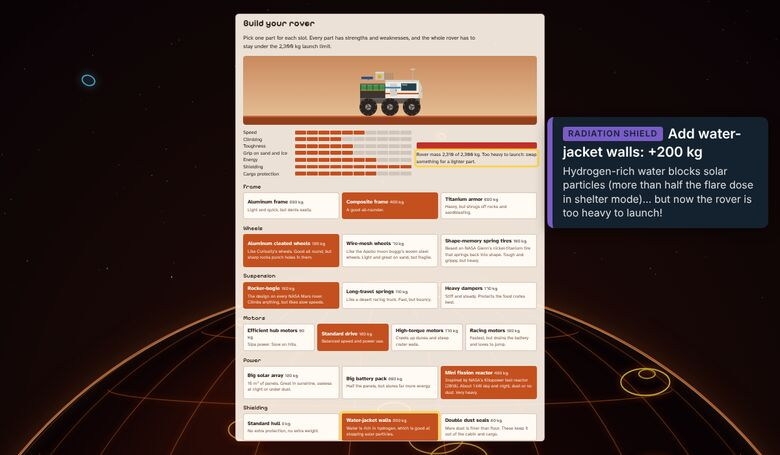
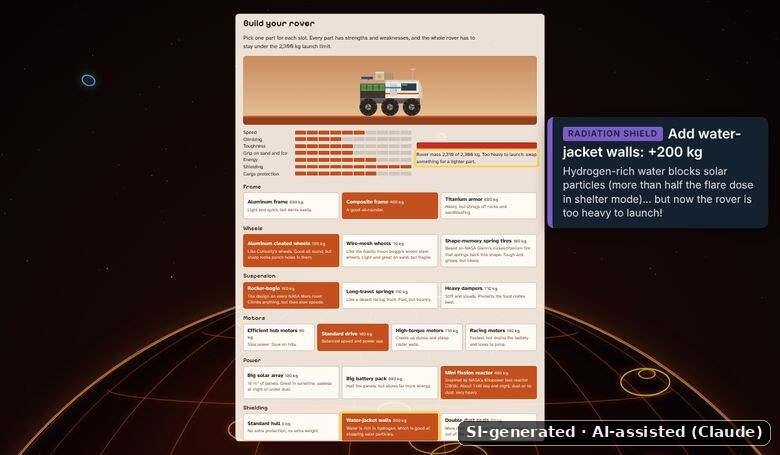
Add Super Intelligence (SI) use disclosure
Concept and design by the Swinging Monkeys team; implementation SI-assisted (Claude).
- README section, AI_DISCLOSURE.md and machine-readable ai-disclosure.json
- SI disclosure header comment in every source file, meta tags in HTML pages
- Credit line on the game's title screen and in the guide footer
- Visible 'SI-generated' watermark plus metadata on all images and GIFs
- Team credit corrected to Swinging Monkeys in README, title screen and guide

Claude-Session: https://claude.ai/code/session_011haJVXXFhJKv8QtmjL1T8B

Changed region(s): [[0.5846, 0.9231, 0.9846, 0.9846]]

diff --git a/guide/index.html b/guide/index.html
@@ -1,7 +1,17 @@
 <!DOCTYPE html>
+<!--
+  Super Intelligence (SI) disclosure (NASA Space Apps Challenge 2026)
+  Concept and design: the Swinging Monkeys team (the team members who took part in the project).
+  Implementation: this guide page (text, layout and code) was generated and edited with SI assistance
+  (Claude by Anthropic, an AI assistant), directed and reviewed by the team.
+  Details: AI_DISCLOSURE.md and ai-disclosure.json in the repository root.
+-->
 <html lang="en">
 <head>
 <meta charset="utf-8">
+<meta name="si-generated" content="true">
+<meta name="ai-disclosure" content="Concept and design by the Swinging Monkeys team. Code generated with Super Intelligence (SI) assistance (Claude by Anthropic), directed and reviewed by the team. See AI_DISCLOSURE.md.">
+<link rel="ai-disclosure" href="../ai-disclosure.json" type="application/json">
 <meta name="viewport" content="width=device-width, initial-scale=1">
 <title>How to Play: Supply Run to Bravo (Junior Astronaut Mission Trainer)</title>
 <meta name="description" content="A player's guide to Supply Run to Bravo, the Junior Astronaut Mission Trainer game from NASA Space Apps Challenge 2026: controls, the mission, hazards, and the trade-offs between power, life support, radiation shielding and communication.">
@@ -480,7 +490,8 @@ footer a{color:#f2c9a8;overflow-wrap:anywhere}
 
 <footer>
   <div class="wrap">
-    <p>Unofficial player's guide to <b>Supply Run to Bravo</b>, a Junior Astronaut Mission Trainer made by The Royal Beauties for the <a href="https://www.spaceappschallenge.org/2026/challenges/junior-astronaut-mission-trainer/" target="_blank" rel="noopener">NASA Space Apps Challenge 2026</a>. Game source: <a href="https://github.com/swingingmonkeys/juniorastronautmissiontrainer" target="_blank" rel="noopener">github.com/swingingmonkeys/juniorastronautmissiontrainer</a>. Clips and screenshots were recorded from the game. Not produced or endorsed by NASA.</p>
+    <p>Unofficial player's guide to <b>Supply Run to Bravo</b>, a Junior Astronaut Mission Trainer made by Swinging Monkeys for the <a href="https://www.spaceappschallenge.org/2026/challenges/junior-astronaut-mission-trainer/" target="_blank" rel="noopener">NASA Space Apps Challenge 2026</a>. Game source: <a href="https://github.com/swingingmonkeys/juniorastronautmissiontrainer" target="_blank" rel="noopener">github.com/swingingmonkeys/juniorastronautmissiontrainer</a>. Clips and screenshots were recorded from the game. Not produced or endorsed by NASA.</p>
+    <p id="si"><b>Use of Super Intelligence (SI).</b> The game concept and design are by the Swinging Monkeys team, the team members who took part in the project. The game code and this guide were built with SI assistance (Claude by Anthropic), directed and reviewed by the team. Every clip and screenshot on this page is a capture of that SI-assisted game and carries a visible “SI-generated” watermark. Full details: <a href="https://github.com/swingingmonkeys/juniorastronautmissiontrainer/blob/main/AI_DISCLOSURE.md" target="_blank" rel="noopener">AI_DISCLOSURE.md</a>.</p>
   </div>
 </footer>
 

diff --git a/index.html b/index.html
@@ -1,7 +1,17 @@
 <!DOCTYPE html>
+<!--
+  Super Intelligence (SI) disclosure (NASA Space Apps Challenge 2026)
+  Concept and design: the Swinging Monkeys team (the team members who took part in the project).
+  Implementation: this file's code was generated and edited with SI assistance
+  (Claude by Anthropic, an AI assistant), directed and reviewed by the team.
+  Details: AI_DISCLOSURE.md and ai-disclosure.json in the repository root.
+-->
 <html lang="en">
 <head>
 <meta charset="utf-8">
+<meta name="si-generated" content="true">
+<meta name="ai-disclosure" content="Concept and design by the Swinging Monkeys team. Code generated with Super Intelligence (SI) assistance (Claude by Anthropic), directed and reviewed by the team. See AI_DISCLOSURE.md.">
+<link rel="ai-disclosure" href="ai-disclosure.json" type="application/json">
 <meta name="viewport" content="width=device-width, initial-scale=1, viewport-fit=cover">
 <title>Supply Run to Bravo – HIF Mars Mission Trainer</title>
 <link rel="preconnect" href="https://fonts.googleapis.com">
@@ -895,7 +905,8 @@ function eventCard({title,who,body,data,choices,after}){
 function titleCard(){
   openCard(`<h1>Supply Run to Bravo</h1>
   <p style="font-family:var(--pixel);font-size:22px;margin:0 0 8px;color:var(--teal)">HIF Mars Mission Trainer</p>
-  <p class="who">A Junior Astronaut Mission Trainer by The Royal Beauties, NASA Space Apps Challenge 2026</p>
+  <p class="who">A Junior Astronaut Mission Trainer by Swinging Monkeys, NASA Space Apps Challenge 2026</p>
+  <p class="who" style="font-size:12px">Concept and design by the Swinging Monkeys team. Code built with Super Intelligence (SI) assistance (Claude by Anthropic). <a href="guide/#si" target="_blank" rel="noopener" style="color:var(--teal)">AI use</a></p>
   <p>Base Alpha is shutting down. You and your crewmate have one job: move <b>all 4 crates of food</b> 24 km across Mars to Base Bravo. Your rover can only carry 200 kg at a time on Medium and Hard, so you’ll make several trips (on Easy, everything fits in one trip), unless you explore deep caves for rare minerals and build a bigger rover.</p>
   <p>The numbers in this game come from real Mars missions: how much oxygen people breathe, how much sunlight reaches Mars, how strong the radiation is, and what dust storms and solar flares did to real rovers.</p>
   <p>First you’ll design your rover in the garage. Then watch your oxygen and battery, keep the food safe, and race to get everything to Bravo. The fastest crews make the world leaderboard.</p>

diff --git a/lebron.html b/lebron.html
@@ -1,7 +1,17 @@
 <!DOCTYPE html>
+<!--
+  Super Intelligence (SI) disclosure (NASA Space Apps Challenge 2026)
+  Concept and design: the Swinging Monkeys team (the team members who took part in the project).
+  Implementation: this file's code was generated and edited with SI assistance
+  (Claude by Anthropic, an AI assistant), directed and reviewed by the team.
+  Details: AI_DISCLOSURE.md and ai-disclosure.json in the repository root.
+-->
 <html lang="en">
 <head>
 <meta charset="utf-8">
+<meta name="si-generated" content="true">
+<meta name="ai-disclosure" content="Concept and design by the Swinging Monkeys team. Code generated with Super Intelligence (SI) assistance (Claude by Anthropic), directed and reviewed by the team. See AI_DISCLOSURE.md.">
+<link rel="ai-disclosure" href="ai-disclosure.json" type="application/json">
 <meta name="viewport" content="width=device-width, initial-scale=1, viewport-fit=cover">
 <title>Supply Run to Bravo – HIF Mars Mission Trainer</title>
 <link rel="preconnect" href="https://fonts.googleapis.com">
@@ -893,7 +903,7 @@ function eventCard({title,who,body,data,choices,after}){
 function titleCard(){
   openCard(`<h1>Supply Run to Bravo</h1>
   <p style="font-family:var(--pixel);font-size:22px;margin:0 0 8px;color:var(--teal)">HIF Mars Mission Trainer</p>
-  <p class="who">A Junior Astronaut Mission Trainer by The Royal Beauties, NASA Space Apps Challenge 2026</p>
+  <p class="who">A Junior Astronaut Mission Trainer by Swinging Monkeys, NASA Space Apps Challenge 2026</p>
   <p>Base Alpha is shutting down. You and your crewmate have one job: move <b>all 4 crates of food</b> 24 km across Mars to Base Bravo. Your rover can only carry 200 kg at a time on Medium and Hard, so you’ll make several trips (on Easy, everything fits in one trip), unless you explore deep caves for rare minerals and build a bigger rover.</p>
   <p>The numbers in this game come from real Mars missions: how much oxygen people breathe, how much sunlight reaches Mars, how strong the radiation is, and what dust storms and solar flares did to real rovers.</p>
   <p>First you’ll design your rover in the garage. Then watch your oxygen and battery, keep the food safe, and race to get everything to Bravo. The fastest crews make the world leaderboard.</p>

diff --git a/lebron3.0.html b/lebron3.0.html
@@ -1,7 +1,17 @@
 <!DOCTYPE html>
+<!--
+  Super Intelligence (SI) disclosure (NASA Space Apps Challenge 2026)
+  Concept and design: the Swinging Monkeys team (the team members who took part in the project).
+  Implementation: this file's code was generated and edited with SI assistance
+  (Claude by Anthropic, an AI assistant), directed and reviewed by the team.
+  Details: AI_DISCLOSURE.md and ai-disclosure.json in the repository root.
+-->
 <html lang="en">
 <head>
 <meta charset="utf-8">
+<meta name="si-generated" content="true">
+<meta name="ai-disclosure" content="Concept and design by the Swinging Monkeys team. Code generated with Super Intelligence (SI) assistance (Claude by Anthropic), directed and reviewed by the team. See AI_DISCLOSURE.md.">
+<link rel="ai-disclosure" href="ai-disclosure.json" type="application/json">
 <meta name="viewport" content="width=device-width, initial-scale=1, viewport-fit=cover">
 <title>Supply Run to Bravo – HIF Mars Mission Trainer</title>
 <link rel="preconnect" href="https://fonts.googleapis.com">
@@ -893,7 +903,7 @@ function eventCard({title,who,body,data,choices,after}){
 function titleCard(){
   openCard(`<h1>Supply Run to Bravo</h1>
   <p style="font-family:var(--pixel);font-size:22px;margin:0 0 8px;color:var(--teal)">HIF Mars Mission Trainer</p>
-  <p class="who">A Junior Astronaut Mission Trainer by The Royal Beauties, NASA Space Apps Challenge 2026</p>
+  <p class="who">A Junior Astronaut Mission Trainer by Swinging Monkeys, NASA Space Apps Challenge 2026</p>
   <p>Base Alpha is shutting down. You and your crewmate have one job: move <b>all 4 crates of food</b> 24 km across Mars to Base Bravo. Your rover can only carry 200 kg at a time on Medium and Hard, so you’ll make several trips (on Easy, everything fits in one trip), unless you explore deep caves for rare minerals and build a bigger rover.</p>
   <p>The numbers in this game come from real Mars missions: how much oxygen people breathe, how much sunlight reaches Mars, how strong the radiation is, and what dust storms and solar flares did to real rovers.</p>
   <p>First you’ll design your rover in the garage. Then watch your oxygen and battery, keep the food safe, and race to get everything to Bravo. The fastest crews make the world leaderboard.</p>

diff --git a/lebron4.0.html b/lebron4.0.html
@@ -1,7 +1,17 @@
 <!DOCTYPE html>
+<!--
+  Super Intelligence (SI) disclosure (NASA Space Apps Challenge 2026)
+  Concept and design: the Swinging Monkeys team (the team members who took part in the project).
+  Implementation: this file's code was generated and edited with SI assistance
+  (Claude by Anthropic, an AI assistant), directed and reviewed by the team.
+  Details: AI_DISCLOSURE.md and ai-disclosure.json in the repository root.
+-->
 <html lang="en">
 <head>
 <meta charset="utf-8">
+<meta name="si-generated" content="true">
+<meta name="ai-disclosure" content="Concept and design by the Swinging Monkeys team. Code generated with Super Intelligence (SI) assistance (Claude by Anthropic), directed and reviewed by the team. See AI_DISCLOSURE.md.">
+<link rel="ai-disclosure" href="ai-disclosure.json" type="application/json">
 <meta name="viewport" content="width=device-width, initial-scale=1, viewport-fit=cover">
 <title>Supply Run to Bravo – HIF Mars Mission Trainer</title>
 <link rel="preconnect" href="https://fonts.googleapis.com">
@@ -893,7 +903,7 @@ function eventCard({title,who,body,data,choices,after}){
 function titleCard(){
   openCard(`<h1>Supply Run to Bravo</h1>
   <p style="font-family:var(--pixel);font-size:22px;margin:0 0 8px;color:var(--teal)">HIF Mars Mission Trainer</p>
-  <p class="who">A Junior Astronaut Mission Trainer by The Royal Beauties, NASA Space Apps Challenge 2026</p>
+  <p class="who">A Junior Astronaut Mission Trainer by Swinging Monkeys, NASA Space Apps Challenge 2026</p>
   <p>Base Alpha is shutting down. You and your crewmate have one job: move <b>all 4 crates of food</b> 24 km across Mars to Base Bravo. Your rover can only carry 200 kg at a time on Medium and Hard, so you’ll make several trips (on Easy, everything fits in one trip), unless you explore deep caves for rare minerals and build a bigger rover.</p>
   <p>The numbers in this game come from real Mars missions: how much oxygen people breathe, how much sunlight reaches Mars, how strong the radiation is, and what dust storms and solar flares did to real rovers.</p>
   <p>First you’ll design your rover in the garage. Then watch your oxygen and battery, keep the food safe, and race to get everything to Bravo. The fastest crews make the world leaderboard.</p>

diff --git a/lebron5.0.html b/lebron5.0.html
@@ -1,7 +1,17 @@
 <!DOCTYPE html>
+<!--
+  Super Intelligence (SI) disclosure (NASA Space Apps Challenge 2026)
+  Concept and design: the Swinging Monkeys team (the team members who took part in the project).
+  Implementation: this file's code was generated and edited with SI assistance
+  (Claude by Anthropic, an AI assistant), directed and reviewed by the team.
+  Details: AI_DISCLOSURE.md and ai-disclosure.json in the repository root.
+-->
 <html lang="en">
 <head>
 <meta charset="utf-8">
+<meta name="si-generated" content="true">
+<meta name="ai-disclosure" content="Concept and design by the Swinging Monkeys team. Code generated with Super Intelligence (SI) assistance (Claude by Anthropic), directed and reviewed by the team. See AI_DISCLOSURE.md.">
+<link rel="ai-disclosure" href="ai-disclosure.json" type="application/json">
 <meta name="viewport" content="width=device-width, initial-scale=1, viewport-fit=cover">
 <title>Supply Run to Bravo – HIF Mars Mission Trainer</title>
 <link rel="preconnect" href="https://fonts.googleapis.com">
@@ -895,7 +905,7 @@ function eventCard({title,who,body,data,choices,after}){
 function titleCard(){
   openCard(`<h1>Supply Run to Bravo</h1>
   <p style="font-family:var(--pixel);font-size:22px;margin:0 0 8px;color:var(--teal)">HIF Mars Mission Trainer</p>
-  <p class="who">A Junior Astronaut Mission Trainer by The Royal Beauties, NASA Space Apps Challenge 2026</p>
+  <p class="who">A Junior Astronaut Mission Trainer by Swinging Monkeys, NASA Space Apps Challenge 2026</p>
   <p>Base Alpha is shutting down. You and your crewmate have one job: move <b>all 4 crates of food</b> 24 km across Mars to Base Bravo. Your rover can only carry 200 kg at a time on Medium and Hard, so you’ll make several trips (on Easy, everything fits in one trip), unless you explore deep caves for rare minerals and build a bigger rover.</p>
   <p>The numbers in this game come from real Mars missions: how much oxygen people breathe, how much sunlight reaches Mars, how strong the radiation is, and what dust storms and solar flares did to real rovers.</p>
   <p>First you’ll design your rover in the garage. Then watch your oxygen and battery, keep the food safe, and race to get everything to Bravo. The fastest crews make the world leaderboard.</p>

diff --git a/api/sync.js b/api/sync.js
@@ -1,3 +1,6 @@
+// Super Intelligence (SI) disclosure (NASA Space Apps Challenge 2026): concept and design by
+// the Swinging Monkeys team; this code was generated with SI assistance (Claude by Anthropic) and
+// reviewed by the team. See AI_DISCLOSURE.md.
 // POST /api/sync  {id, mode:'menu'|'solo'|'multi', join?:'medium'|'hard', lobby?, p:{...presence}, ed:[[x,y,tile],...], cursor}
 // Saves this player's presence and block edits; returns counts, the other players in the same lobby and new edits.
 // Multiplayer lobbies hold at most 5 astronauts; "join" picks the first lobby with room.

diff --git a/api/leaderboard.js b/api/leaderboard.js
@@ -1,3 +1,6 @@
+// Super Intelligence (SI) disclosure (NASA Space Apps Challenge 2026): concept and design by
+// the Swinging Monkeys team; this code was generated with SI assistance (Claude by Anthropic) and
+// reviewed by the team. See AI_DISCLOSURE.md.
 // GET  /api/leaderboard?diff=medium -> top 25 fastest complete missions on that difficulty
 // POST /api/leaderboard {pid,name,minutes,food,trips,lvl,mode,diff} -> keeps each player's best time per difficulty
 const { pipeline, cleanId, cleanName, send, body } = require('./_redis');

diff --git a/api/_redis.js b/api/_redis.js
@@ -1,3 +1,6 @@
+// Super Intelligence (SI) disclosure (NASA Space Apps Challenge 2026): concept and design by
+// the Swinging Monkeys team; this code was generated with SI assistance (Claude by Anthropic) and
+// reviewed by the team. See AI_DISCLOSURE.md.
 // Tiny helper for Upstash Redis over its REST API (no npm packages needed).
 // Vercel's Upstash Redis integration adds one of these pairs of environment variables.
 const URL_ = process.env.KV_REST_API_URL || process.env.UPSTASH_REDIS_REST_URL;

diff --git a/api/online.js b/api/online.js
@@ -1,3 +1,6 @@
+// Super Intelligence (SI) disclosure (NASA Space Apps Challenge 2026): concept and design by
+// the Swinging Monkeys team; this code was generated with SI assistance (Claude by Anthropic) and
+// reviewed by the team. See AI_DISCLOSURE.md.
 // GET /api/online -> how many people have the game open, and how many are in multiplayer
 const { send, readPlayers } = require('./_redis');
 module.exports = async (req, res) => {

diff --git a/AI_DISCLOSURE.md b/AI_DISCLOSURE.md
@@ -1,0 +1,31 @@
+# Use of Super Intelligence (SI)
+
+This file is the Super Intelligence (SI) disclosure for **Supply Run to Bravo**, our entry to the NASA Space Apps Challenge 2026 challenge *Build a Junior Astronaut Mission Trainer*. A machine-readable copy is in [`ai-disclosure.json`](ai-disclosure.json).
+
+## Who did what
+
+- **Concept and design: the Swinging Monkeys team.** The game idea, the mission (moving food from Base Alpha to Base Bravo), the gameplay, the learning goals and the choice of real Mars data were created by the team members who took part in the project.
+- **Implementation: SI-assisted.** The whole prototype was built with SI assistance. The team described what it wanted and an AI assistant (**Claude, by Anthropic**, a large language model) generated and edited the code. The team directed the work, tested the game and decided what to keep.
+
+## Where SI was used
+
+| Part of the project | Files | How SI was used |
+| --- | --- | --- |
+| Game code (HTML, CSS, JavaScript, canvas graphics, Web Audio music) | `index.html`, and earlier versions `lebron.html`, `lebron3.0.html`, `lebron4.0.html`, `lebron5.0.html` | Generated and edited with Claude from the team's design |
+| Multiplayer and leaderboard server code | `api/_redis.js`, `api/leaderboard.js`, `api/online.js`, `api/sync.js` | Generated with Claude |
+| How-to-play guide website (text, layout and code) | `guide/index.html` | Written with Claude |
+| Guide clips and screenshots | `guide/gifs/*.gif`, `guide/gifs/*.jpg`, `guide/img/*.jpg` | Recorded automatically by Claude from the SI-assisted game, with SI-written captions |
+| Game screenshot | `lebron2.0.png` | Capture of the SI-assisted game |
+| Documentation | `README.md`, this file | Drafted with Claude |
+
+The game's graphics and music are drawn and synthesized by the SI-generated code at run time; there are no separate image or audio asset files in the game. No audio files are included in the project.
+
+## How it is marked
+
+- **Images and videos:** every image and animated GIF in the repository carries a visible "SI-generated · AI-assisted (Claude)" watermark in the bottom-right corner. Each file also carries the disclosure in its metadata (EXIF ImageDescription and Artist for JPEGs, a comment block for GIFs, text chunks for PNGs).
+- **Code:** every source file starts with a short SI disclosure comment. The HTML pages also carry `si-generated` and `ai-disclosure` meta tags that link to `ai-disclosure.json`.
+- **In the game:** the title screen shows "Concept and design by the Swinging Monkeys team. Code built with Super Intelligence (SI) assistance (Claude by Anthropic)." The guide's footer has a matching note.
+
+## NASA branding
+
+The project does not use, contain or modify any NASA logos, insignia, flags or mission identifiers. The text mentions NASA only as a source of real data (for example oxygen use from NASA's Baseline Values and Assumptions Document) and by the name of the event, NASA Space Apps Challenge 2026. The game is not produced or endorsed by NASA.

diff --git a/README.md b/README.md
@@ -1,8 +1,12 @@
 # Supply Run to Bravo – Henhen Mars Mission Trainer
 
-A Minecraft-style Mars survival and driving game by **The Royal Beauties** for the NASA Space Apps Challenge 2026 challenge *Build a Junior Astronaut Mission Trainer*.
+A Minecraft-style Mars survival and driving game by **Swinging Monkeys** for the NASA Space Apps Challenge 2026 challenge *Build a Junior Astronaut Mission Trainer*.
 
 Base Alpha is shutting down. Your crew has to move all 20 crates of food 24 km across Mars to Base Bravo. The rover only carries 200 kg at a time and your pack holds just 40 items, so you make several trips (oxygen is refilled at each base), unless you explore deep caves for rare minerals and build a bigger rover.
+
+## Use of Super Intelligence (SI)
+
+**Concept and design by the Swinging Monkeys team**, the team members who took part in the project. The whole prototype was then **built with Super Intelligence (SI) assistance**: the code, the guide website and the documentation were generated and edited with **Claude (Anthropic)**, directed, tested and reviewed by the team. Every image and GIF in this repository has a visible "SI-generated" watermark, every source file starts with an SI disclosure comment, and the HTML pages carry SI metadata tags. No NASA logos or branding are used. Full details: [AI_DISCLOSURE.md](AI_DISCLOSURE.md) (machine-readable: [ai-disclosure.json](ai-disclosure.json)).
 
 ## Play
 
